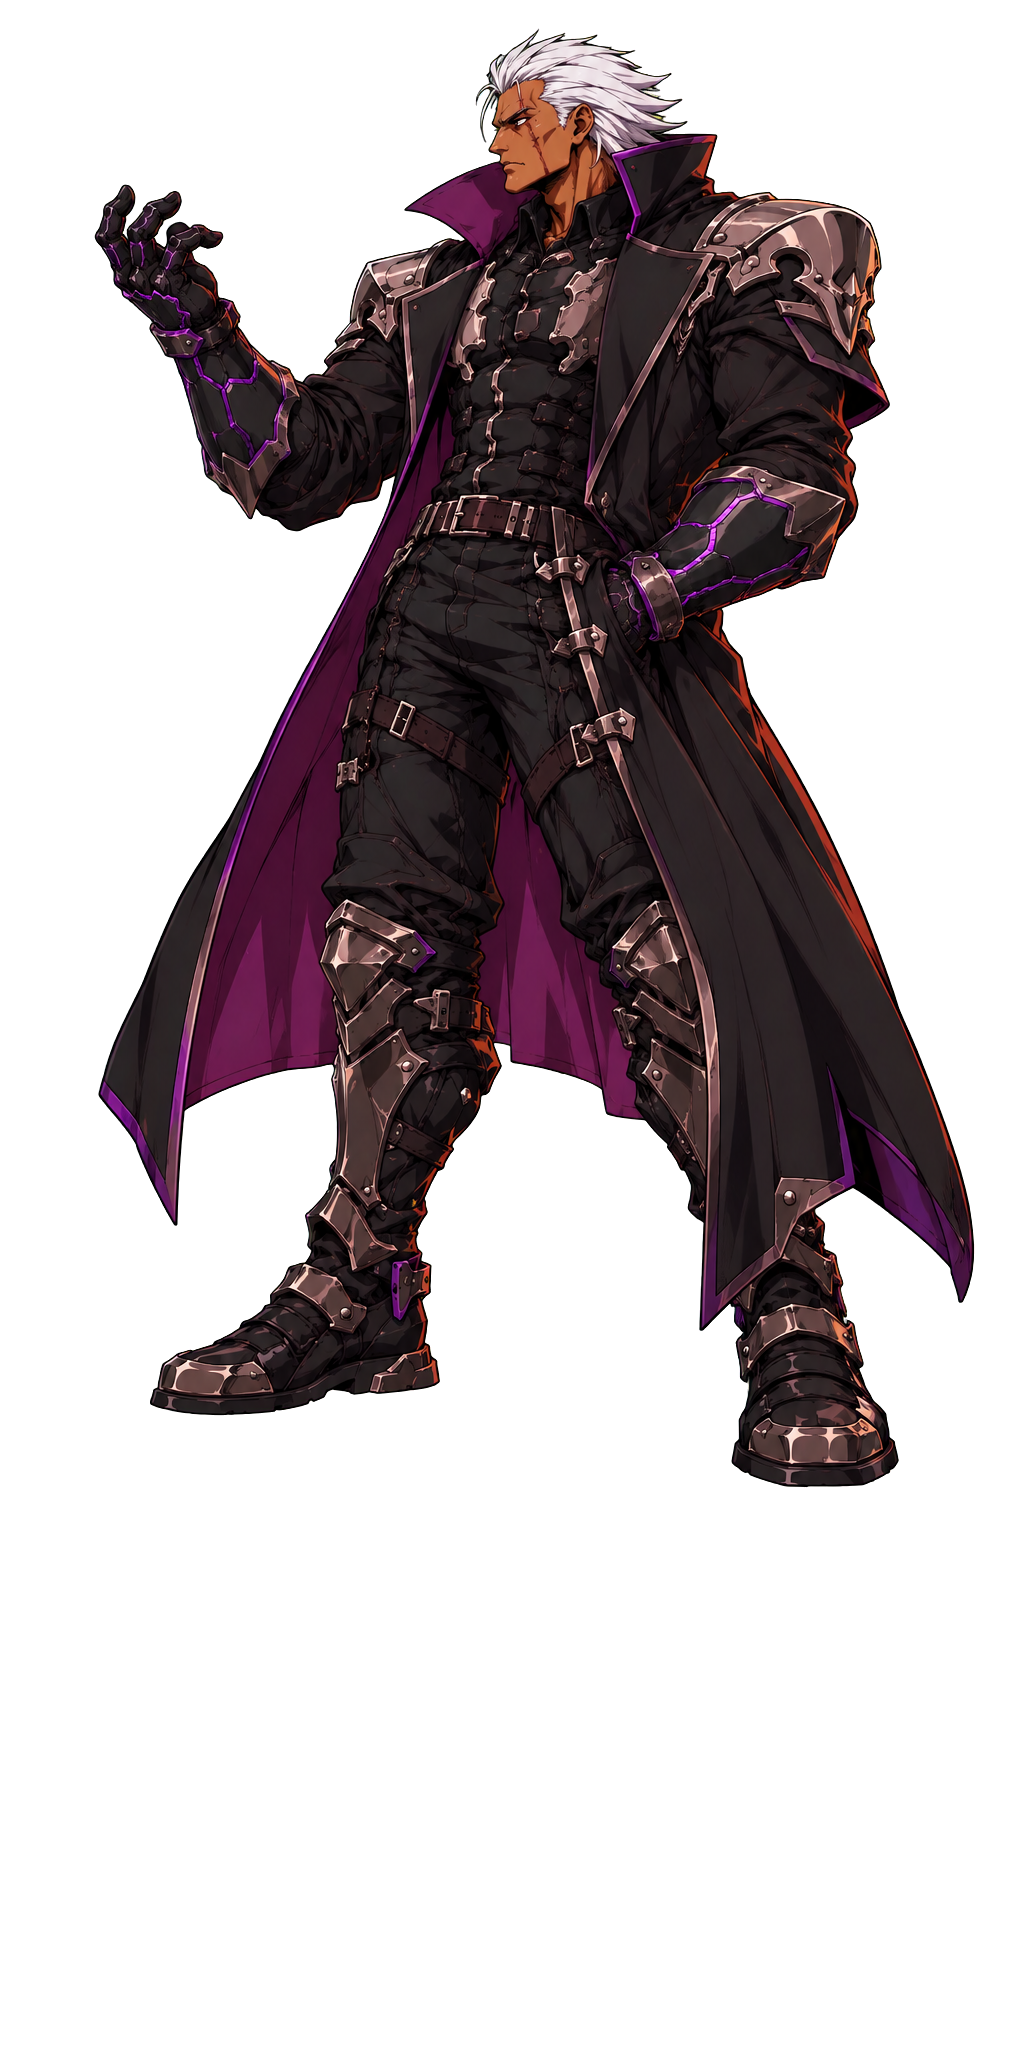
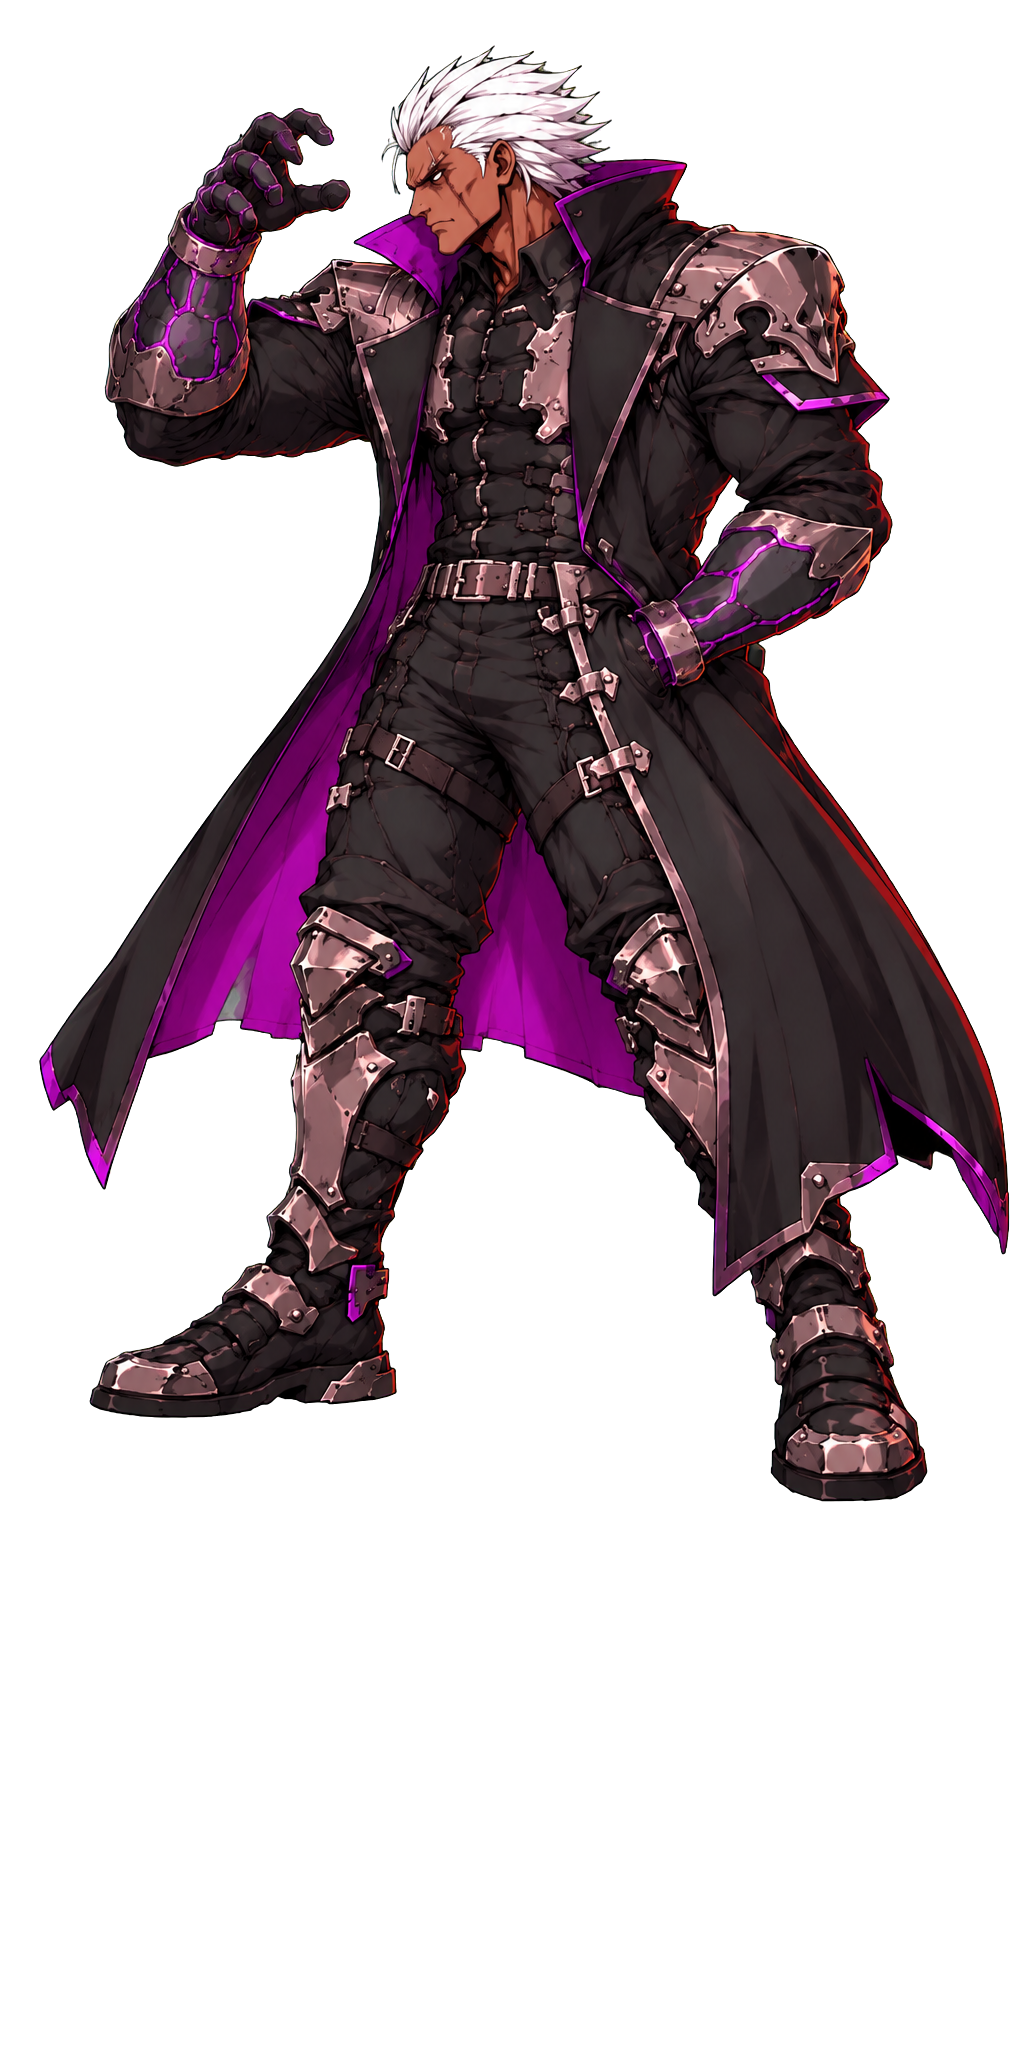
Lab : nouvelle garde de l'adversaire, avec une variante main sur le front
Claude-Session: https://claude.ai/code/session_015fMRbsLJa9znv5DiAYkBLj

Changed region(s): [[0.0312, 0.0, 1.0, 0.75]]

diff --git a/lab/src/game/rival/RivalLayer.ts b/lab/src/game/rival/RivalLayer.ts
@@ -19,7 +19,9 @@ type Point = [number, number]
  * que la tête garde la taille de celle de la garde (les illustrations ne sont pas à la même échelle).
  */
 const POSES = {
-  guard: { file: 'rival/guard.webp', ground: [525, 1455], scale: 1.1 },
+  // garde : la main levée, et une variante où elle passe sur le front (les jambes ne bougent pas)
+  guard: { file: 'rival/guard.webp', ground: [560, 1469], scale: 1.1 },
+  guard2: { file: 'rival/guard-2.webp', ground: [559, 1471], scale: 1.1 },
   // lévitation : calées sur le ceinturon de la garde, pour que le buste ne saute pas au changement de dessin ;
   // `ground` est alors le point sous le ceinturon, à hauteur du bas de la botte la plus basse
   floatForward: { file: 'rival/float-forward.webp', ground: [480, 1426], scale: 1.1 },
@@ -370,6 +372,8 @@ const MOVES: Record<MoveName, Move> = {
   },
 }
 /** Effets du coup spécial : durée de la croissance de la traînée, de son estompage et de l'explosion, en secondes. */
+/** Garde : toutes les `period` secondes, il garde `gesture` secondes la main sur le front (dessin `guard2`). */
+const GUARD_IDLE = { period: 3.2, gesture: 0.9 }
 const FX = { grow: 0.08, fade: 0.22, burst: 0.35 }
 /** Début de la première étape active d'un coup, en secondes : là où sa traînée d'énergie commence. */
 const activeStart = (move: Move) => {
@@ -1134,7 +1138,9 @@ export class RivalLayer implements Opponent {
       const at = (this.ghostX + PLACEMENT.depth * camera.ox - 0.5) * camera.zoom + 0.5
       drawPose('teleportStreak', 0.45 * (1 - ghost) ** 2, at, 1 + 0.5 * ghost)
     }
-    if (!this.vanished) drawPose(this.pose, 1)
+    // en garde, il passe de temps en temps la main sur le front
+    const idle = this.pose === 'guard' && (frame.time % GUARD_IDLE.period) > GUARD_IDLE.period - GUARD_IDLE.gesture
+    if (!this.vanished) drawPose(idle ? 'guard2' : this.pose, 1)
     // coup spécial : la traînée d'énergie grandit en trois dessins pendant la jambe tendue, puis s'estompe
     const strength = calm ? 0.6 : 1
     // (même effet sur le coup de poing de sa suite)

diff --git a/lab/docs/ASSETS.md b/lab/docs/ASSETS.md
@@ -74,7 +74,7 @@ python3 tools/prepare_rival.py
 
 Le script lit tous les `../art/rival-*.png` (personnage tourné vers la gauche, mêmes contraintes que les poses du personnage), retire le fond vert et écrit une image par pose dans `public/assets/rival/`. Il affiche aussi l'étendue des appuis et le bord avant du corps, qui servent à régler le point posé au sol, `surface` et `gap` dans `src/game/rival/RivalLayer.ts`.
 
-Pour la lévitation, `rival-float-forward.png` (penché vers l'avant, pour avancer) et `rival-float-back.png` (droit, pour reculer) et `rival-float-start.png` (pose de passage, droite, en l'air). Pour la téléportation : `rival-teleport-crouch.png`, `rival-teleport-streak.png` (le même, dans un trait de vitesse) et `rival-teleport-rise.png`. Pour son coup de poing : `rival-punch-ready.png`, `rival-punch-windup.png`, `rival-punch-reach.png` et `rival-punch-hit.png` (de dos, poing tendu), calés sur le pied arrière ; pour son coup de pied : `rival-kick-chamber.png`, `rival-kick-raise.png` et `rival-kick-hit.png`, calés sur la botte d'appui ; pour son coup de marteau : `rival-smash-raise.png`, `rival-smash-swing.png` et `rival-smash-hit.png`, calés sur la botte arrière (coupée par le bord droit : `NO_EDGE_FADE` dans `tools/prepare_rival.py` empêche de l'estomper) ; pour son uppercut : `rival-upper-crouch.png`, `rival-upper-rise.png` et `rival-upper-hit.png`, calés sur la botte arrière ; pour son coup de pied final : `rival-push-ready.png`, `rival-push-chamber.png` et `rival-push-hit.png`, calés sur la botte d'appui ; pour son coup spécial : `rival-special-stance.png`, `rival-special-chamber.png`, `rival-special-charge.png`, `rival-special-kick.png`, sa suite `rival-special2-ready/cock/punch/hit.png` (calés en arrière de la botte arrière pour ne pas chevaucher Moussa), et ses effets `rival-fx-trail-1..3.png`, `rival-fx-burst.png`, `rival-fx-ring.png` (cellules de la moitié sur fond vert de la planche fournie, agrandies sur une toile 1024 × 1536, cœur lumineux placé à un point fixe). Pour le début de son attaque ultime : `rival-ult-ready.png`, `rival-ult-charge-1.png`, `rival-ult-charge-2.png`, puis l'uppercut (les dessins `rival-upper-*` de l'enchaînement) puis la charge `rival-ult-power.png` (de face), `rival-ult-crouch-1..3.png` et l'envol `rival-ult-fly.png`, le retour en coup de poing vers le sol `rival-ult-land.png`, puis le coup de marteau à deux mains `rival-hammer-raise.png`, `rival-hammer-swing.png`, `rival-hammer-hit.png` et `rival-hammer-end.png`, et le bond en arrière qui suit, `rival-hop-1.png` à `rival-hop-8.png` (avec sa traînée de super vitesse, `rival-fx-streak.png`, un trait violet vertical) et l'impact au sol du décollage, `rival-fx-ground-1.png` à `rival-fx-ground-11.png` (petites images fournies par Moussa, recadrées, agrandies et posées au centre du bas d'une toile 1024 × 1536 ; les dessins 1, 10 et 11, plus petits, sont plus agrandis et donc un peu flous) (les deux premiers, en 1121 × 1403, ont été recadrés pieds en bas sur une toile 1024 × 1536), calés sur la botte arrière (non estompés au bord). Échelle mesurée du haut des cheveux au ceinturon. `tools/prepare_rival.py` estompe les dessins coupés par le bord droit de l'illustration (`EDGE_FADE`) : leur point `ground` dans `POSES` est pris sous le ceinturon, à la même place que dans la garde, et à hauteur du bas de la botte la plus basse.
+La garde de l'adversaire : `rival-guard.png` (la main levée, remplacée le 18 octobre) et sa variante `rival-guard-2.png` (la main sur le front). Pour la lévitation, `rival-float-forward.png` (penché vers l'avant, pour avancer) et `rival-float-back.png` (droit, pour reculer) et `rival-float-start.png` (pose de passage, droite, en l'air). Pour la téléportation : `rival-teleport-crouch.png`, `rival-teleport-streak.png` (le même, dans un trait de vitesse) et `rival-teleport-rise.png`. Pour son coup de poing : `rival-punch-ready.png`, `rival-punch-windup.png`, `rival-punch-reach.png` et `rival-punch-hit.png` (de dos, poing tendu), calés sur le pied arrière ; pour son coup de pied : `rival-kick-chamber.png`, `rival-kick-raise.png` et `rival-kick-hit.png`, calés sur la botte d'appui ; pour son coup de marteau : `rival-smash-raise.png`, `rival-smash-swing.png` et `rival-smash-hit.png`, calés sur la botte arrière (coupée par le bord droit : `NO_EDGE_FADE` dans `tools/prepare_rival.py` empêche de l'estomper) ; pour son uppercut : `rival-upper-crouch.png`, `rival-upper-rise.png` et `rival-upper-hit.png`, calés sur la botte arrière ; pour son coup de pied final : `rival-push-ready.png`, `rival-push-chamber.png` et `rival-push-hit.png`, calés sur la botte d'appui ; pour son coup spécial : `rival-special-stance.png`, `rival-special-chamber.png`, `rival-special-charge.png`, `rival-special-kick.png`, sa suite `rival-special2-ready/cock/punch/hit.png` (calés en arrière de la botte arrière pour ne pas chevaucher Moussa), et ses effets `rival-fx-trail-1..3.png`, `rival-fx-burst.png`, `rival-fx-ring.png` (cellules de la moitié sur fond vert de la planche fournie, agrandies sur une toile 1024 × 1536, cœur lumineux placé à un point fixe). Pour le début de son attaque ultime : `rival-ult-ready.png`, `rival-ult-charge-1.png`, `rival-ult-charge-2.png`, puis l'uppercut (les dessins `rival-upper-*` de l'enchaînement) puis la charge `rival-ult-power.png` (de face), `rival-ult-crouch-1..3.png` et l'envol `rival-ult-fly.png`, le retour en coup de poing vers le sol `rival-ult-land.png`, puis le coup de marteau à deux mains `rival-hammer-raise.png`, `rival-hammer-swing.png`, `rival-hammer-hit.png` et `rival-hammer-end.png`, et le bond en arrière qui suit, `rival-hop-1.png` à `rival-hop-8.png` (avec sa traînée de super vitesse, `rival-fx-streak.png`, un trait violet vertical) et l'impact au sol du décollage, `rival-fx-ground-1.png` à `rival-fx-ground-11.png` (petites images fournies par Moussa, recadrées, agrandies et posées au centre du bas d'une toile 1024 × 1536 ; les dessins 1, 10 et 11, plus petits, sont plus agrandis et donc un peu flous) (les deux premiers, en 1121 × 1403, ont été recadrés pieds en bas sur une toile 1024 × 1536), calés sur la botte arrière (non estompés au bord). Échelle mesurée du haut des cheveux au ceinturon. `tools/prepare_rival.py` estompe les dessins coupés par le bord droit de l'illustration (`EDGE_FADE`) : leur point `ground` dans `POSES` est pris sous le ceinturon, à la même place que dans la garde, et à hauteur du bas de la botte la plus basse.
 
 ## Décor : `tools/prepare_stage.py`
 

diff --git a/lab/docs/ARCHITECTURE.md b/lab/docs/ARCHITECTURE.md
@@ -259,6 +259,8 @@ Toucher conditionne aussi la suite de l'enchaînement :
 
 Quand Moussa encaisse un coup, il alterne deux dessins d'un coup à l'autre : le coup encaissé habituel (`hurt` puis `hurtRecover`), et plié au ventre (`hurtGut`, `HeroLayer.gut`).
 
+La garde de l'adversaire (`guard`, la main levée) passe de temps en temps à une variante où il se passe la main sur le front (`guard2`, réglages dans `GUARD_IDLE`) ; les jambes sont les mêmes dans les deux dessins.
+
 ## L'interface de combat
 
 `HudLayer` (`src/game/hud/`) tient et dessine les barres, à la manière de Street Fighter 6, Moussa à gauche et l'adversaire à droite. Elle se dessine sur la toile de la cinématique (`CinematicLayer.hud`), sous les annonces et les plans de coupe, et seulement quand les plans de l'intro ne couvrent plus l'écran.
